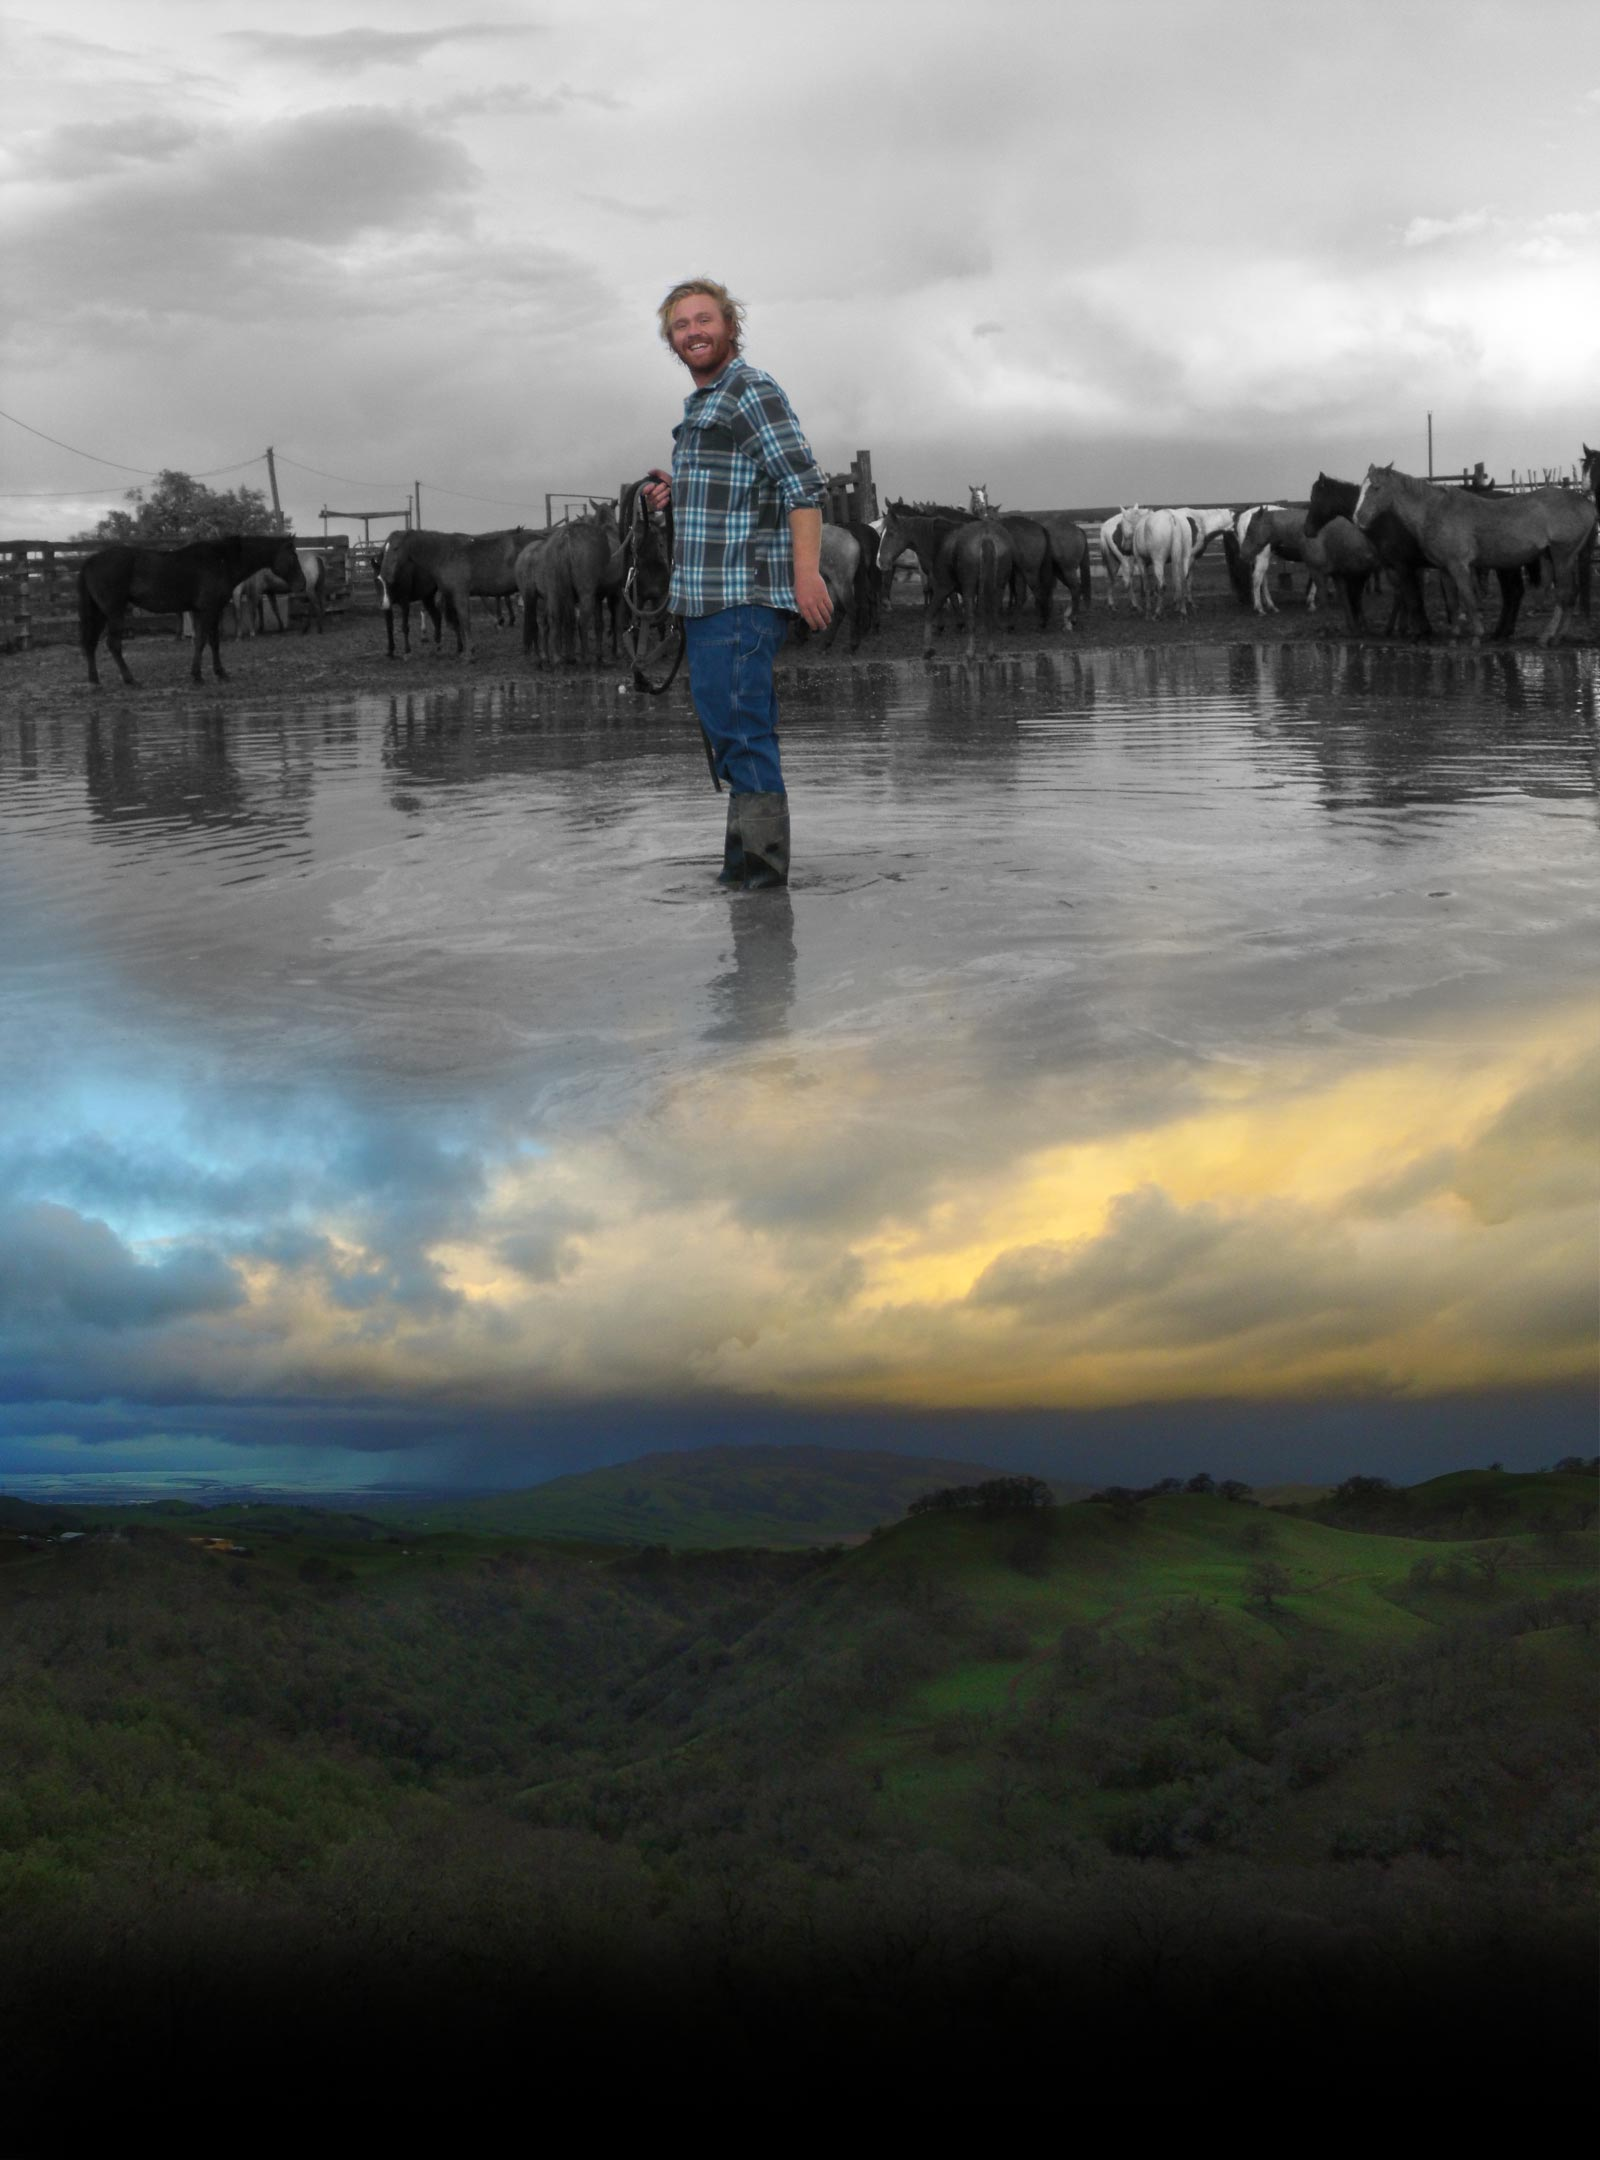
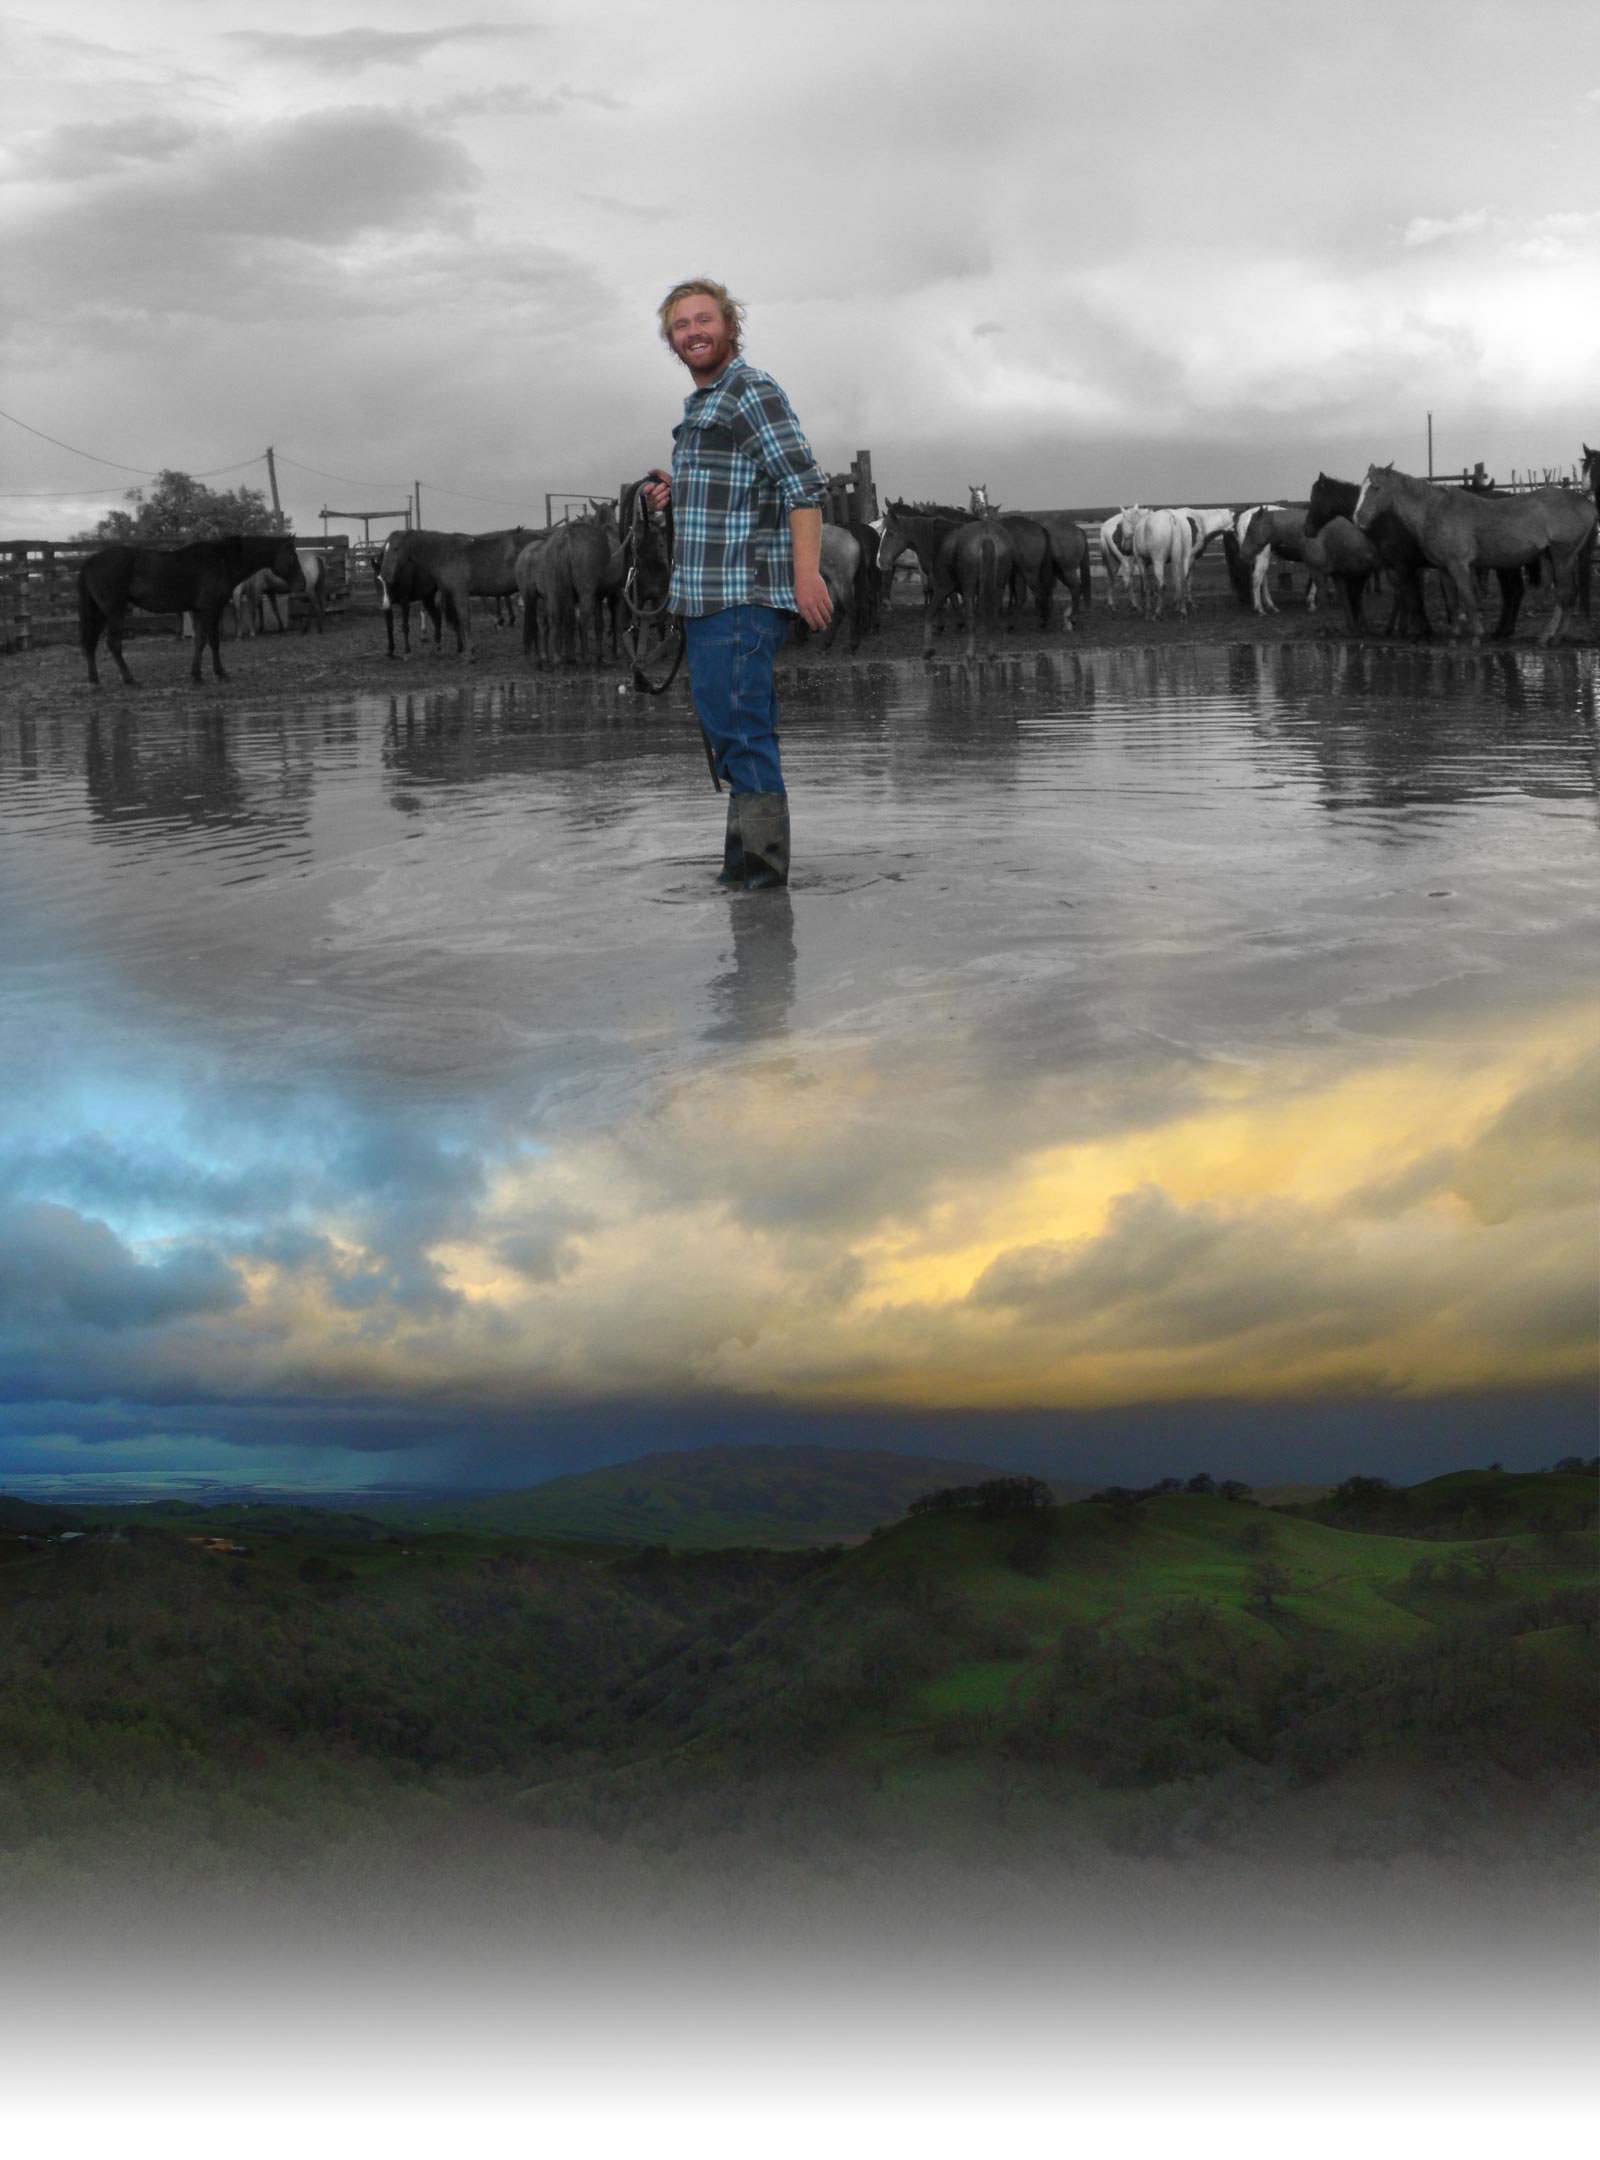
adds lightning strike

Changed region(s): [[0.0, 0.8375, 1.0, 1.0]]

diff --git a/src/components/lightning_strike.jsx b/src/components/lightning_strike.jsx
@@ -1,0 +1,79 @@
+import React, {Component} from 'react';
+
+class LightningStrike extends Component{
+	constructor(){
+		super();
+		this.state = {
+			lightningWidth: null,
+			lightningHeight: null,
+			lightningTop: null,
+			lightningBackPos: null
+		}
+		this.handleLightningStrike = this.handleLightningStrike.bind(this);
+		this.handleResizeLightning = this.handleResizeLightning.bind(this);
+		this.updateLightningBackgroundPosition = this.updateLightningBackgroundPosition.bind(this);
+	}
+	
+	componentDidMount(){
+		let that = this;
+		this.interval = setInterval(that.handleLightningStrike, 3000);
+		this.handleResizeLightning();
+		window.addEventListener('resize', this.handleResizeLightning);
+	}
+	
+	componentWillUnmount(){
+		window.removeEventListener('resize', this.handleResizeLightning);
+	}
+	
+	handleLightningStrike(){
+		setTimeout(() => {this.updateLightningBackgroundPosition(" 0 14.28%")}, 75);
+		setTimeout(() => {this.updateLightningBackgroundPosition(" 0 28.57%")}, 150);
+		setTimeout(() => {this.updateLightningBackgroundPosition(" 0 42.85%")}, 225);
+			
+		setTimeout(() => {this.updateLightningBackgroundPosition(" 0 28.57%")}, 300);
+		setTimeout(() => {this.updateLightningBackgroundPosition(" 0 42.85%")}, 375);
+			
+		setTimeout(() => {this.updateLightningBackgroundPosition(" 0 28.57%")}, 450);
+		setTimeout(() => {this.updateLightningBackgroundPosition(" 0 42.85%")}, 525);
+	}
+	
+	handleResizeLightning(){
+		const windowWidth = window.innerWidth;
+		//image is made up of 8 frames => height is 1/8 width
+		const height = windowWidth/8;
+		//ratio of width to height of background image = 1600/2160
+		
+		let top;
+		switch(true){
+		case windowWidth < 768:
+			top = 750;
+			break;
+		case (windowWidth > 768 && windowWidth < 929):
+			top = 780;
+			break;
+		case windowWidth >= 929:
+			top = windowWidth*0.83;
+			break;
+		}
+		
+		this.setState({lightningWidth: windowWidth, lightningHeight: height, lightningTop: top});
+	}
+	
+	updateLightningBackgroundPosition(backPos){
+		this.setState({lightningBackPos: backPos});
+	}
+	
+	render(){
+		return(
+			<div className="lightning" 
+					 style={{	height: `${this.state.lightningHeight}px`, 
+						 				width: `${this.state.lightningWidth}px`, 
+						 				top: `${this.state.lightningTop}px`, 
+						 				backgroundPosition: this.state.lightningBackPos
+					 				}}>
+			</div>
+		)
+	}
+}
+
+export default LightningStrike;

diff --git a/src/App.js b/src/App.js
@@ -1,29 +1,35 @@
 import React, { Component } from 'react';
 
 import SocialMediaIcon from './components/social_media_icon';
+import LightningStrike from './components/lightning_strike';
 import bv_icon from './images/horseshoe_brent_taylor_vale_200sq.png';
 import './App.css';
 
 class App extends Component {
+	
+	
   render() {
     return (
       <div className="App">
         <div className="App-header">
-          <img src={bv_icon} className="App-logo" alt="logo" />
-          
-					<div style={{height: "600px"}}></div>
+			
+					<div className="App-header-icon">
+						<h2 className="rye">coding&nbsp;</h2>
+			      <img src={bv_icon} className="App-header-icon-image" alt="logo" />
+						<h2 className="rye">&nbsp;cowboy</h2>
+					</div>
 					
-	  <div id="experiment">
-			<SocialMediaIcon id="linkedIn" href="https://www.linkedin.com/in/brentvale" altText="Brent Taylor Vale LinkedIn Profile"/>
-			<SocialMediaIcon id="twitter" href="https://twitter.com/ValeBrent" altText="Brent Taylor Vale Twitter Profile" />
-			<SocialMediaIcon id="github" href="https://github.com/brentvale" altText="Brent Taylor Vale Github Profile"/>
-			<SocialMediaIcon id="youTube" href="https://www.youtube.com/channel/UCwdDBC24kbciRy2tSpO6OPA" altText="Brent Taylor Vale youTube Profile"/>
-			<SocialMediaIcon id="instagram" href="https://www.instagram.com/coding_cowboy/" altText="Brent Taylor Vale Instagram Profile"/>
-	  </div>
+				  <div id="socialIconsContainer">
+						<SocialMediaIcon id="linkedIn" href="https://www.linkedin.com/in/brentvale" altText="Brent Taylor Vale LinkedIn Profile"/>
+						<SocialMediaIcon id="twitter" href="https://twitter.com/ValeBrent" altText="Brent Taylor Vale Twitter Profile" />
+						<SocialMediaIcon id="github" href="https://github.com/brentvale" altText="Brent Taylor Vale Github Profile"/>
+						<SocialMediaIcon id="youTube" href="https://www.youtube.com/channel/UCwdDBC24kbciRy2tSpO6OPA" altText="Brent Taylor Vale youTube Profile"/>
+						<SocialMediaIcon id="instagram" href="https://www.instagram.com/coding_cowboy/" altText="Brent Taylor Vale Instagram Profile"/>
+				  </div>
+						
         </div>
-        <p className="App-intro">
-          Brent Taylor Vale
-        </p>
+				<LightningStrike />
+				<div style={{height:"1000px"}}></div>
       </div>
     );
   }

diff --git a/src/App.css b/src/App.css
@@ -1,24 +1,77 @@
-.App {
-  text-align: center;
+html{
+	font-size: 16px;
+}
+body{
+	font-size:62.5%;
 }
 
-.App-header {
+h1,h2,h3{
+	color: #000;
+}
+
+/*FONTS*/
+.raleway {
+	font-family: 'Raleway', Arial;
+}
+.rye {
+	font-family: 'Rye', cursive;
+}
+
+/*MAIN*/
+.App {
   background-image: url('./images/background_pool_brent_sky_bella_color.jpg');
 	background-size: cover;
+	background-position:top center;
+	background-repeat:no-repeat;
   padding: 20px;
-  color: white;
+	position:relative;
+  color: #fff;
+  text-align: center;
+}
+.App:before {
+	content: '';
+	height: 100px;
+	position: absolute;
+	right: 0;
+	bottom: 0;
+	left: 0;
+	background-image: linear-gradient(to bottom, transparent, white); 
+}
+.App-header h2{
+	display:inline-block;
+	font-size: 1.5em;
+	vertical-align:top;
+}
+.App-header-icon{
+	display:inline-block;
+	padding:4em 2em 2em 2em;
+	width: 300px;
+}
+.App-header-icon img{
+	height:75px;
+	width: 90px;
+}
+.lightning{
+  height: 200;
+  width:1600;
+  background: url("./images/lightning_sprite_3images_1strike.png");
+  background-size: 100% 800%;
+  /*14.28, 28.57, 42.85, 57.14, 71.43, 85.71 */
+  background-position: 0 85.71% ;
+  z-index: 10;
+  position: absolute;
+	left: 0;
+  top:750px;
+}
+.center-block{
+  left:0;
+  right:0;
+  margin-left:auto;
+  margin-right:auto;
 }
 
-.App-intro {
-  font-size: large;
-}
-
-@keyframes App-logo-spin {
-  from { transform: rotate(0deg); }
-  to { transform: rotate(360deg); }
-}
-
-#experiment {
+/*SOCIAL MEDIA ICONS*/
+#socialIconsContainer{
   -webkit-perspective: 500px;
   -webkit-perspective-origin: 50% 150px;
   z-index: 100;
@@ -227,3 +280,16 @@
   background-position: 0 -33.33% ;
 }
 /*end 3d cube*/
+@media screen and (min-width: 768px){
+	.App-header h2{
+		font-size: 2.5em;
+	}
+	.App-header-icon{
+		padding:8em 2em 2em 30em;
+		width: 350px;
+	}
+	.App-header-icon img{
+		height:100px;
+		width: 120px;
+	}
+}

diff --git a/public/index.html b/public/index.html
@@ -19,22 +19,16 @@
       work correctly both with client-side routing and a non-root public URL.
       Learn how to configure a non-root public URL by running `npm run build`.
     -->
-    <title>React App</title>
+    <title>Brent Vale Portfolio Website </title>
+	  <link href='https://fonts.googleapis.com/css?family=Raleway:100,400' rel='stylesheet' type='text/css'>
+	  <link href='https://fonts.googleapis.com/css?family=Rye' rel='stylesheet' type='text/css'>
+	  <link rel="stylesheet" href="https://maxcdn.bootstrapcdn.com/font-awesome/4.6.1/css/font-awesome.min.css">
   </head>
   <body>
     <noscript>
       You need to enable JavaScript to run this app.
     </noscript>
     <div id="root"></div>
-    <!--
-      This HTML file is a template.
-      If you open it directly in the browser, you will see an empty page.
-
-      You can add webfonts, meta tags, or analytics to this file.
-      The build step will place the bundled scripts into the <body> tag.
-
-      To begin the development, run `npm start` or `yarn start`.
-      To create a production bundle, use `npm run build` or `yarn build`.
-    -->
+    
   </body>
 </html>

diff --git a/src/App.test.js b/src/App.test.js
@@ -20,4 +20,9 @@ describe('App', () => {
 			<SocialMediaIcon id="instagram"/>
 	  ])).to.equal(true);
 	});
+	
+	it('should render linkedIn at the top of the social media icons list', ()=> {
+		const wrapper = shallow(<App/>);
+		expect(wrapper.find(SocialMediaIcon).at(0).props().id).to.equal('linkedIn');
+	})
 });
